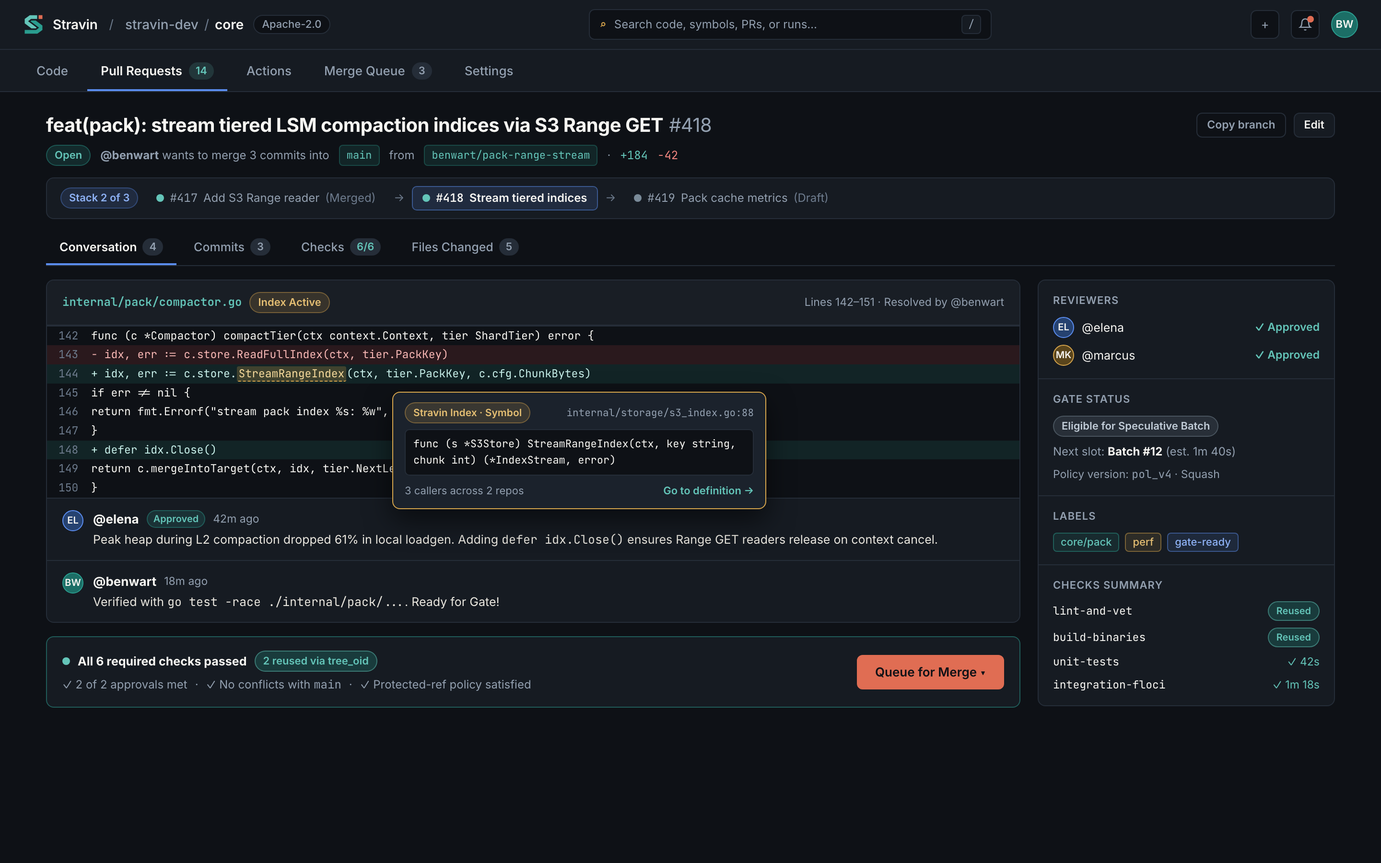
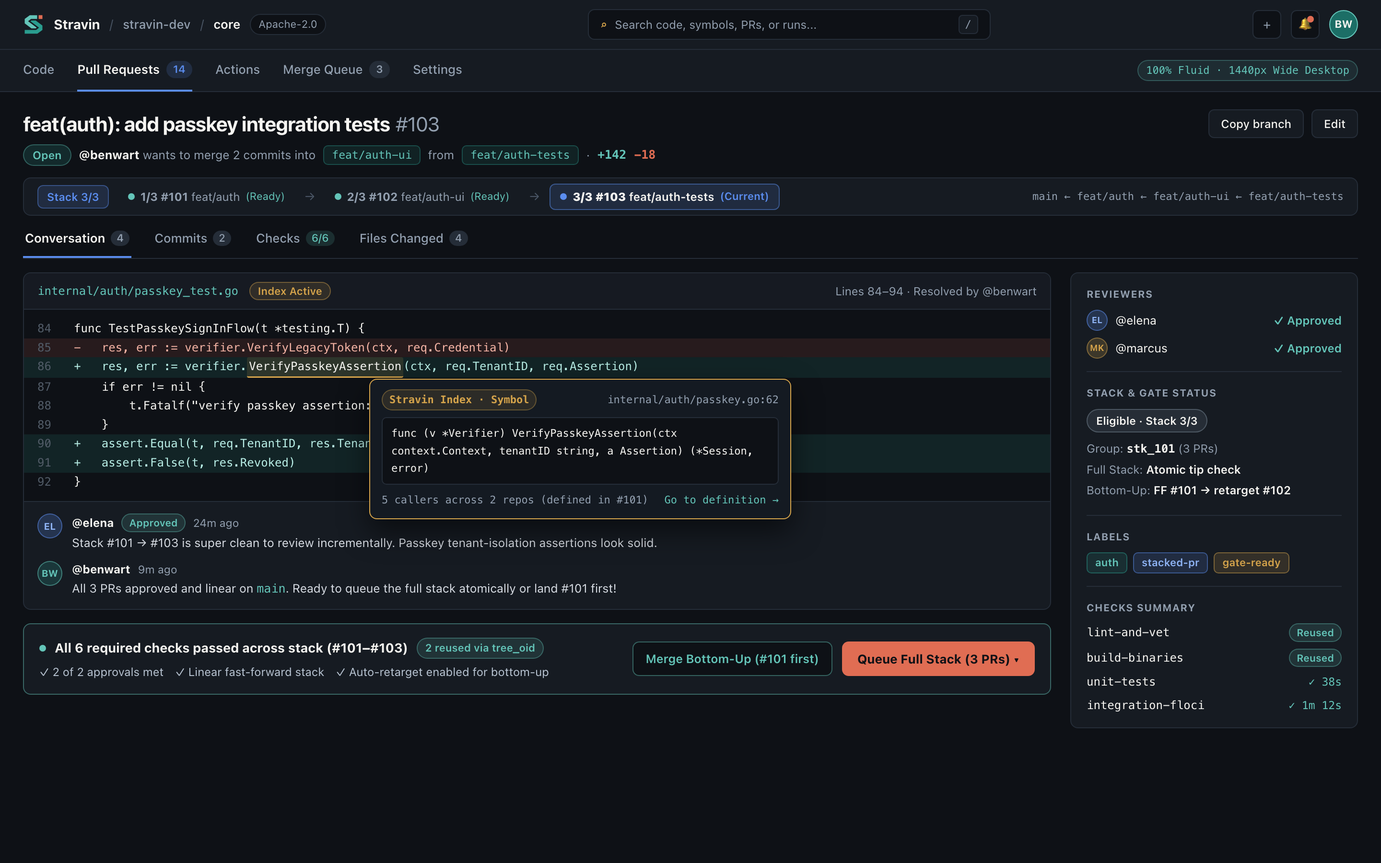
docs(ui,interfaces): add stacked PR merge modes and full-width responsive breakpoints

diff --git a/docs/interfaces/review-gate.md b/docs/interfaces/review-gate.md
@@ -21,20 +21,29 @@ sequenceDiagram
     participant Gate as Stravin Gate (Temporal Workflows)
     participant NATS as NATS JetStream (STRAVIN_GATE / STRAVIN_REVIEW)
 
-    Dev->>Review: Click "Add to Merge Queue" (single PR or stacked group)
-    Review->>Review: Snapshot approvals, unresolved threads, head_oid, stack members
-    Review->>Gate: POST /v1/queues/entries (Idempotency-Key, items[], eligibility, priority)
+    Dev->>Review: Click "Queue Full Stack" (FULL_STACK_ATOMIC) or "Queue #101 / Merge Bottom-Up" (BOTTOM_UP_CASCADE)
+    Review->>Review: Snapshot approvals, unresolved threads, head_oid, stack members (bottom-to-top)
+    Review->>Gate: POST /v1/queues/entries (Idempotency-Key, merge_mode, stack_group_id, items[], eligibility)
     Gate->>Gate: Validate policy_version rules (approvals, draft=false, stack contiguous)
     alt Eligible
-        Gate-->>Review: 201 Created (queue_entry_id, position, policy_version)
+        Gate-->>Review: 201 Created (queue_entry_id, merge_mode, stack_group_id, position, policy_version)
         loop Queue progress
             Gate->>NATS: Publish stravin.gate.<tenant>.<repo>.queue.updated (Nats-Msg-Id, traceparent)
             NATS-->>Review: Durable consumer delivery (review-gate-events)
             Review->>Review: Render queue badge & timeline event on PR(s)
         end
-        Gate->>NATS: Publish stravin.gate.<tenant>.<repo>.entry.merged (merged_commit_oid)
-        NATS-->>Review: Durable consumer delivery
-        Review->>Review: Mark PR(s) merged & close branches
+        alt merge_mode == FULL_STACK_ATOMIC
+            Gate->>Gate: Validate combined tip once (reuse tree_oid verdicts) & AtomicRefCAS entire stack
+            Gate->>NATS: Publish stravin.gate.<tenant>.<repo>.entry.merged (merged_commit_oid, merged_pr_ids[])
+            NATS-->>Review: Durable consumer delivery
+            Review->>Review: Mark all PRs in stack_group_id Merged & clean up intermediate branches
+        else merge_mode == BOTTOM_UP_CASCADE
+            Gate->>Gate: Fast-forward land bottom PR (#101 -> main) when linear
+            Gate->>NATS: Publish stravin.gate.<tenant>.<repo>.entry.merged (merged_commit_oid, fast_forward=true)
+            NATS-->>Review: Durable consumer delivery
+            Review->>Review: Mark #101 Merged, retarget #102 base_ref (feat/auth -> main) & restack cleanly
+            Review->>NATS: Publish stravin.review.<tenant>.<repo>.pr.base_retargeted (pr_id=#102, new_base_ref=main)
+        end
     else Ineligible
         Gate-->>Review: 422 Unprocessable Entity (unmet_requirements[])
         Review-->>Dev: Show blocking policy reasons inline
@@ -66,15 +75,19 @@ traceparent: 00-4bf92f3577b34da6a3ce929d0e0e4736-00f067aa0ba902b7-01
   "target_ref": "refs/heads/main",
   "actor_id": "usr_alice",
   "priority": "normal",
-  "merge_strategy": "squash",
+  "merge_strategy": "fast_forward",
+  "merge_mode": "FULL_STACK_ATOMIC",
+  "stack_group_id": "stk_01JDF700000000000000000101",
   "atomic_group": true,
   "items": [
     {
       "pr_id": "pr_01JDF7A...",
-      "head_ref": "refs/heads/feat/stack-1",
+      "pr_number": 101,
+      "base_ref": "refs/heads/main",
+      "head_ref": "refs/heads/feat/auth",
       "head_oid": "9999999999999999999999999999999999999999",
       "tree_oid": "8888888888888888888888888888888888888888",
-      "commit_message": "feat(edge): add singleflight pack cache (#410)",
+      "commit_message": "feat(auth): add token verifier (#101)",
       "eligibility": {
         "is_draft": false,
         "unresolved_thread_count": 0,
@@ -87,10 +100,12 @@ traceparent: 00-4bf92f3577b34da6a3ce929d0e0e4736-00f067aa0ba902b7-01
     },
     {
       "pr_id": "pr_01JDF8Z...",
-      "head_ref": "refs/heads/feat/stack-2",
+      "pr_number": 102,
+      "base_ref": "refs/heads/feat/auth",
+      "head_ref": "refs/heads/feat/auth-ui",
       "head_oid": "a1b2c3d4e5f6a1b2c3d4e5f6a1b2c3d4e5f6a1b2",
       "tree_oid": "b2c3d4e5f6a1b2c3d4e5f6a1b2c3d4e5f6a1b2c3",
-      "commit_message": "feat(edge): add S3 spillover tier (#411)",
+      "commit_message": "feat(auth-ui): add passkey sign-in flow (#102)",
       "eligibility": {
         "is_draft": false,
         "unresolved_thread_count": 0,
@@ -110,12 +125,21 @@ Response (`201 Created`):
 ```json
 {
   "queue_entry_id": "qe_01JDF9C4D5E6F7G8H9J0K1L2M3",
+  "merge_mode": "FULL_STACK_ATOMIC",
+  "stack_group_id": "stk_01JDF700000000000000000101",
   "state": "queued",
   "position": 3,
   "policy_version": "pol_01JDE0...",
   "enqueued_at": "2026-11-24T22:20:01Z"
 }
 ```
+
+#### Stacked PR Merge Modes (`merge_mode`)
+
+| `merge_mode` | `items[]` Payload | Gate Validation & Merge Semantics | Post-Merge Review Action |
+| :--- | :--- | :--- | :--- |
+| **`FULL_STACK_ATOMIC`** | Ordered bottom-to-top chain (`[#101, #102, #103]`) tagged with a shared `stack_group_id` and `atomic_group: true` | Gate validates the **combined tip once** (reusing cached `tree_oid` verdicts from Stravin Run where applicable) and lands the entire stack atomically onto `target_ref` via Core `AtomicRefCAS` — never landing a half-merged stack. | Review marks every PR in `stack_group_id` as **Merged** and deletes intermediate branches (`feat/auth`, `feat/auth-ui`, `feat/auth-tests`). |
+| **`BOTTOM_UP_CASCADE`** | Single bottom-most unmerged PR (`[#101]` whose `base_ref == target_ref`, e.g., `refs/heads/main`) | Gate verifies linear fast-forward eligibility against `target_ref` (falling back to configured merge strategy only if non-linear and allowed by policy) and lands `#101` onto `main` via fast-forward `AtomicRefCAS`. | Review marks `#101` as **Merged**, **automatically retargets** `#102`'s `base_ref` from `feat/auth` to `main`, fast-forwards/restacks downstream refs cleanly, and publishes `review.pr.base_retargeted`. |
 
 Additional synchronous endpoints:
 
@@ -154,16 +178,19 @@ Published to stream `STRAVIN_GATE` with `Nats-Msg-Id: <idempotency_key>` and W3C
 }
 ```
 
-- `stravin.gate.<tenant_id>.<repo_id>.entry.merged` (`event_type: "gate.entry.merged"`) — Fired after Core `AtomicRefCAS` succeeds, carrying `merged_commit_oid`, `target_ref`, `policy_version`, and per-PR final commit OIDs for stacked groups.
+- `stravin.gate.<tenant_id>.<repo_id>.entry.merged` (`event_type: "gate.entry.merged"`) — Fired after Core `AtomicRefCAS` succeeds, carrying `merge_mode`, `stack_group_id` (when stacked), `merged_commit_oid`, `fast_forward` (`bool`), `target_ref`, `policy_version`, and per-PR final commit OIDs for stacked groups.
 
-### 5.2 Review -> Gate: Eligibility Invalidation Events (`STRAVIN_REVIEW` JetStream)
+### 5.2 Review -> Gate: Eligibility Invalidation & Cascade Events (`STRAVIN_REVIEW` JetStream)
 
-- `stravin.review.<tenant_id>.<repo_id>.pr.eligibility_changed` (`event_type: "review.pr.eligibility_changed"`) — Published to `STRAVIN_REVIEW` whenever a queued PR is force-pushed, converted to draft, closed, receives a "changes requested" review, or loses a required approval (and `stravin.review.<tenant_id>.<repo_id>.pr.approved` on approvals). Gate binds durable consumer `gate-review-eligibility` and evicts the affected `queue_entry_id` (and the entire `atomic_group` if stacked).
-- **Temporal Workflow Engine (Gate Only):** **Stravin Gate** runs its speculative merge-queue batch workflows on **Temporal**: `POST /v1/queues/entries` and `DELETE /v1/queues/entries/{queue_entry_id}` start or signal queue workflows idempotently, `STRAVIN_REVIEW` invalidation events deliver external workflow signals, and `GET /v1/prs/{pr_id}/eligibility` runs as an idempotent Temporal activity. **Stravin Review** remains permanently Temporal-free.
+- `stravin.review.<tenant_id>.<repo_id>.pr.eligibility_changed` (`event_type: "review.pr.eligibility_changed"`) — Published to `STRAVIN_REVIEW` whenever a queued PR is force-pushed, converted to draft, closed, receives a "changes requested" review, or loses a required approval (and `stravin.review.<tenant_id>.<repo_id>.pr.approved` on approvals). Gate binds durable consumer `gate-review-eligibility` and evicts the affected `queue_entry_id` (and the entire `stack_group_id` if queued under `FULL_STACK_ATOMIC`).
+- `stravin.review.<tenant_id>.<repo_id>.pr.base_retargeted` (`event_type: "review.pr.base_retargeted"`) — Published to `STRAVIN_REVIEW` after a `BOTTOM_UP_CASCADE` merge lands a parent PR (`#101 -> main`) and Review automatically retargets the child PR (`#102`) from `refs/heads/feat/auth` to `refs/heads/main`. Carries `pr_id`, `stack_group_id`, `previous_base_ref`, `new_base_ref`, `parent_merged_commit_oid`, and `fast_forward_clean` (`bool`) so Gate and Run can immediately re-evaluate eligibility and reuse `tree_oid` verdicts without manual user intervention.
+- **Temporal Workflow Engine (Gate Only):** **Stravin Gate** runs its speculative merge-queue batch workflows on **Temporal**: `POST /v1/queues/entries` and `DELETE /v1/queues/entries/{queue_entry_id}` start or signal queue workflows idempotently, `STRAVIN_REVIEW` invalidation and cascade events deliver external workflow signals, and `GET /v1/prs/{pr_id}/eligibility` runs as an idempotent Temporal activity. **Stravin Review** remains permanently Temporal-free.
 
 ## 6. Shared Data Contracts & Identifiers
 
-- **Atomic Stacked Groups:** `items[]` is ordered bottom-to-top (index `0` is closest to `target_ref`). When `atomic_group: true`, Gate either merges every PR in `items[]` in one atomic Ref-CAS sequence or evicts the entire group — never landing a half-merged stack.
+- **Merge Mode Enum (`merge_mode`):**
+    - `FULL_STACK_ATOMIC` — Top-down atomic group merge: `items[]` is ordered bottom-to-top (index `0` is closest to `target_ref`) under one `stack_group_id`. Gate validates the combined tip once (reusing `tree_oid` verdicts where applicable) and either merges every PR in `items[]` atomically or evicts the entire group — never landing a half-merged stack.
+    - `BOTTOM_UP_CASCADE` — Incremental bottom-up merge: lands the bottom PR (`items[0]`) via fast-forward when linear, then Review automatically retargets the immediate child PR's `base_ref` to `target_ref` and emits `review.pr.base_retargeted` so the rest of the stack cascades cleanly without manual retargeting.
 - **Priority Enum:** `low` | `normal` | `high` | `emergency` (skip-to-front, audited).
 - **Eviction Reason Codes:** `MERGE_CONFLICT`, `REQUIRED_CHECK_FAILED`, `APPROVAL_REVOKED`, `HEAD_OID_CHANGED`, `POLICY_CHANGED`, `QUEUE_TIMEOUT`, `USER_DEQUEUED`.
 
@@ -180,16 +207,16 @@ Published to stream `STRAVIN_GATE` with `Nats-Msg-Id: <idempotency_key>` and W3C
 
 ### Side A: Stravin Review Build Checklist
 
-- [ ] Build deterministic eligibility snapshot builder bound to `(pr_id, head_oid, evaluated_at)` and bottom-to-top stack ordering.
-- [ ] Publish `stravin.review.<tenant_id>.<repo_id>.pr.eligibility_changed` (with `Nats-Msg-Id` and `traceparent`) to `STRAVIN_REVIEW` whenever a queued PR's approvals, draft status, or `head_oid` changes.
+- [ ] Build deterministic eligibility snapshot builder bound to `(pr_id, head_oid, evaluated_at)` and bottom-to-top stack ordering with `merge_mode` (`FULL_STACK_ATOMIC` | `BOTTOM_UP_CASCADE`) and `stack_group_id`.
+- [ ] Publish `stravin.review.<tenant_id>.<repo_id>.pr.eligibility_changed` and `stravin.review.<tenant_id>.<repo_id>.pr.base_retargeted` (with `Nats-Msg-Id` and `traceparent`) to `STRAVIN_REVIEW`.
 - [ ] Expose `GET /v1/prs/{pr_id}/eligibility` with app-level `tenant_id` check for Gate's pre-merge freshness check.
-- [ ] Bind durable JetStream consumer `review-gate-events` on `STRAVIN_GATE` and render `queue.updated`, `entry.evicted`, and `entry.merged` on all PRs in an atomic group.
+- [ ] Bind durable JetStream consumer `review-gate-events` on `STRAVIN_GATE`, close all PRs + clean intermediate branches on `FULL_STACK_ATOMIC`, and auto-retarget child PR `base_ref` on `BOTTOM_UP_CASCADE`.
 
 ### Side B: Stravin Gate Build Checklist
 
 - [ ] Implement idempotent `POST /v1/queues/entries`, `DELETE /v1/queues/entries/{id}`, `GET /v1/queues/entries/{id}`, and `POST /v1/policies/evaluate` (backed by Temporal merge-queue workflows and signals) with constant-time `tenant_id` checks.
-- [ ] Enforce `atomic_group: true` all-or-nothing semantics for stacked PRs.
-- [ ] Bind durable JetStream consumer `gate-review-eligibility` on `STRAVIN_REVIEW` and re-verify eligibility snapshots older than 5 minutes before executing Core `AtomicRefCAS`.
+- [ ] Enforce `merge_mode: "FULL_STACK_ATOMIC"` (combined tip validation with `tree_oid` reuse + all-or-nothing atomic merge) and `merge_mode: "BOTTOM_UP_CASCADE"` (fast-forward merge of bottom PR when linear).
+- [ ] Bind durable JetStream consumer `gate-review-eligibility` on `STRAVIN_REVIEW` (handling both `pr.eligibility_changed` and `pr.base_retargeted`) and re-verify eligibility snapshots older than 5 minutes before executing Core `AtomicRefCAS`.
 - [ ] Publish queue outcomes to `STRAVIN_GATE` and return structured `unmet_requirements[]` and `reason_code` values for clear PR timeline feedback.
 
 ### Shared Contract-Test Fixtures

diff --git a/docs/ui/pull-requests.md b/docs/ui/pull-requests.md
@@ -19,29 +19,56 @@ The Pull Requests workspace preserves GitHub's low-friction review rhythm—disc
 
 ### Key Elements
 
-- **Header & Branch Ref Chips:** PR title, state pill, diff stats, and copyable `source -> target` branch chips styled in Strata Teal.
-- **Optional Stack Strip:** Appears only when a PR is part of a stack—a single 36px horizontal strip (`#417 Merged -> #418 Current -> #419 Draft`) that lets reviewers step through stacked diffs without losing context.
+- **Header & Branch Ref Chips:** PR title, state pill, diff stats, and copyable `source -> target` branch chips styled in Strata Teal. For stacked PRs, the target chip displays the parent PR branch (for example `feat/auth-tests -> feat/auth-ui`).
+- **Optional Stack Strip (Zero-Tutorial Stacked PRs):** Appears only when a PR belongs to a branch-on-branch stack (`PR #101 (feat/auth -> main)` <- `PR #102 (feat/auth-ui -> feat/auth)` <- `PR #103 (feat/auth-tests -> feat/auth-ui)`). Renders a single 36px horizontal strip—for example **`1/3 #101 Ready` -> `2/3 #102 Current` -> `3/3 #103 Draft`** (or `1/3 #101 Ready` -> `2/3 #102 Ready` -> `3/3 #103 Current` at the stack tip)—so reviewers step up and down the chain with one click and never lose context.
 - **Familiar 4-Tab Workspace:** `Conversation`, `Commits`, `Checks`, and `Files Changed` keep the exact layout developers already know.
 - **Subtle `Stravin Index` Symbol Hover:** Hovering any identifier in a diff queries `Review ⟷ Index` over Cilium mTLS and displays an Ochre Amber popover with the symbol signature, definition path, cross-repo caller count, and a `Go to definition` link. When Index lags, the diff stays unaffected and falls back gracefully.
-- **Unified Checks & Gate Merge Box:** Replaces multi-panel merge widgets with one calm box summarizing required checks (calling out `tree_oid` reused verdicts), approvals, conflict state, and a single primary Rivet Terracotta CTA: **`Queue for Merge`**.
+- **Unified Checks & Gate Merge Box (Stacked-Aware):** Replaces multi-panel merge widgets with one calm box summarizing required checks (calling out `tree_oid` reused verdicts), approvals, conflict state, and stack-aware merge actions:
+    - **Bottom PR (`#101`, base = `main`):** Primary Rivet Terracotta CTA **`Queue #101 (Fast-Forward)`** (`BOTTOM_UP_CASCADE`). Landing `#101` via fast-forward automatically retargets `#102` from `feat/auth` to `main` and restacks cleanly down the chain without manual retargeting.
+    - **Upper / Tip PR (`#102` or `#103`):** Primary Rivet Terracotta CTA **`Queue Full Stack (3 PRs)`** (`FULL_STACK_ATOMIC`) paired with a clean secondary option **`Merge Bottom-Up (#101 first)`** (`BOTTOM_UP_CASCADE`).
+    - **Standalone PR (not stacked):** Single primary CTA **`Queue for Merge`**.
 - **Uncluttered Right Rail:** Limited to four high-signal sections—**Reviewers**, **Gate Status**, **Labels**, and **Checks Summary**.
+
+## First-Class Stacked Pull Requests
+
+Stravin supports native branch-on-branch stacking without custom CLI wrappers or hidden metadata branches. Basing `PR #102` on `PR #101`'s head branch (`feat/auth-ui -> feat/auth`) automatically links the stack in **Stravin Review** and unlocks two intuitive merge modes in **Stravin Gate**:
+
+| Merge Mode | Contract Value | Triggered From | Behavior & Git History |
+| :--- | :--- | :--- | :--- |
+| **Mode A — Merge Full Stack (Top-Down Atomic Group)** | `FULL_STACK_ATOMIC` | Any upper/tip PR (`Queue Full Stack (3 PRs)`) | Enqueues the entire unmerged chain (`[#101, #102, #103]`) into Gate under one `stack_group_id`. Gate validates the combined tip once (reusing `tree_oid` verdicts where applicable), merges the full stack atomically into `main`, marks all PRs Merged, and cleans up intermediate branches. |
+| **Mode B — Incremental Bottom-Up Merge (Fast-Forward Cascade)** | `BOTTOM_UP_CASCADE` | Bottom PR (`Queue #101 (Fast-Forward)`) or secondary CTA on upper PR (`Merge Bottom-Up (#101 first)`) | Lands the bottom PR (`#101 -> main`) via fast-forward when linear, then automatically retargets `#102`'s base branch from `feat/auth` to `main` (`review.pr.base_retargeted`) and fast-forwards/restacks cleanly down the chain while upper PRs stay open in review. |
 
 ## End-to-End Developer Flow
 
 ```mermaid
 flowchart LR
     Discover["1. Discover PR (PR List · Stack & Queue Pills)"]
-    Inspect["2. Inspect Diff (Conversation / Files + Index Hover)"]
+    Inspect["2. Inspect Diff (Stack Strip · Files + Index Hover)"]
     Approve["3. Approve & Resolve (Review -> Core Ref Snapshot)"]
-    Enqueue["4. Queue for Merge (Review -> Gate Temporal Queue)"]
-    Batch["5. Speculative Batch (Gate + Run · tree_oid Reuse)"]
-    Merged["6. Atomic Ref-CAS Merge (Core -> Notify & Webhooks)"]
+    Choice{"4. Stacked Merge Mode?"}
+    FullStack["Mode A: Queue Full Stack (FULL_STACK_ATOMIC · stack_group_id)"]
+    TipValidate["Validate Combined Tip Once (Gate + Run · tree_oid Reuse)"]
+    AtomicLand["Atomic Ref-CAS Land All PRs (Close Stack & Clean Branches)"]
+    BottomUp["Mode B: Merge Bottom-Up (BOTTOM_UP_CASCADE · #101 First)"]
+    FFLand["Fast-Forward Land #101 (Core Ref-CAS -> main)"]
+    Retarget["Auto-Retarget #102 -> main (review.pr.base_retargeted · Clean Cascade)"]
 
-    Discover --> Inspect --> Approve --> Enqueue --> Batch --> Merged
+    Discover --> Inspect --> Approve --> Choice
+    Choice -->|"Queue Full Stack (3 PRs)"| FullStack --> TipValidate --> AtomicLand
+    Choice -->|"Queue #101 / Merge Bottom-Up"| BottomUp --> FFLand --> Retarget
 ```
+
+## Responsive Behavior
+
+| Breakpoint | Layout & Rail Adaptation | Diffs, Stack Strip & Merge Box |
+| :--- | :--- | :--- |
+| **Wide Desktop (`>= 1440px`)** | `100%` fluid width (`padding-inline: 24px`); fluid main pane + `300px` right metadata rail | Side-by-side diffs fill full width; full horizontal Stack Strip; inline primary + secondary Merge Box CTAs |
+| **Desktop (`1024px - 1439px`)** | `100%` fluid width (`padding-inline: 20px`); compact `260px` right metadata rail | Side-by-side diffs stay active with compact gutters; Stack Strip truncates long PR titles cleanly |
+| **Tablet (`768px - 1023px`)** | `100%` fluid width (`padding-inline: 16px`); right rail collapses into top summary strip + slide-over drawer | Diffs default to **unified** view; Stack Strip scrolls horizontally if > 4 PRs; Merge Box stays full-width |
+| **Mobile (`< 768px`)** | Single-column `100%` width (`padding-inline: 12px`); scrollable repo tab bar; stacked cards | Unified diff only; compact Stack Strip pill (`Stack 3/3` drawer); **sticky bottom action bar** (`Approve` / `Queue`) with zero horizontal page scroll |
 
 ## Product Interface Grounding
 
-- **Core ⟷ Review:** Reads diffs and commit history via Core's read-only Git Data/Diff API and tracks PR head updates from `STRAVIN_CORE` JetStream events ([Core ⟷ Review](../interfaces/core-review.md)).
+- **Core ⟷ Review:** Reads diffs and commit history via Core's read-only Git Data/Diff API, resolves branch-on-branch stack lineage, and handles automatic base-branch retargeting + fast-forward ref advancement ([Core ⟷ Review](../interfaces/core-review.md)).
 - **Review ⟷ Index:** Powers inline symbol hover and cross-repo caller counts with RBAC filtering ([Review ⟷ Index](../interfaces/review-index.md)).
-- **Review ⟷ Gate:** Submits idempotent enqueue requests and renders live batch eligibility and atomic stack merge feedback ([Review ⟷ Gate](../interfaces/review-gate.md)).
+- **Review ⟷ Gate:** Submits idempotent enqueue requests with `merge_mode` (`FULL_STACK_ATOMIC` or `BOTTOM_UP_CASCADE`) and renders live batch eligibility, atomic stack merges, and bottom-up cascade feedback ([Review ⟷ Gate](../interfaces/review-gate.md)).

diff --git a/docs/interfaces/core-review.md b/docs/interfaces/core-review.md
@@ -7,8 +7,8 @@ This specification defines the contract between **Stravin Core** (bare Git stora
 | Concern | Source of Truth | Private Implementation Details (Never Crosses Boundary) |
 | :--- | :--- | :--- |
 | **Git objects, packs, refs, `default_branch`, `object_format`** | **Stravin Core** | S3 pack layout, DynamoDB `RS#s`/`RH#s`/`MS#m` sharding, `stravin-node` NVMe cache, `stravin-pack` compaction |
-| **PR lifecycle, review comments, approvals, stacked-diff topology, draft state** | **Stravin Review** | Review SQL/document database, inline comment anchoring heuristics, UI notification preferences |
-| **PR synthetic/head refs (`refs/stravin/pr/{pr_id}/head`, `refs/stravin/pr/{pr_id}/merge`)** | **Stravin Core** (storage) / **Stravin Review** (lifecycle) | Core stores refs via Ref-CAS; Review decides when to create, update, or clean them up |
+| **PR lifecycle, review comments, approvals, stacked-diff topology (`base_ref` -> parent `head_ref`), draft state** | **Stravin Review** | Review SQL/document database, inline comment anchoring heuristics, UI notification preferences |
+| **PR synthetic/head refs (`refs/stravin/pr/{pr_id}/head`, `refs/stravin/pr/{pr_id}/merge`)** | **Stravin Core** (storage) / **Stravin Review** (lifecycle) | Core stores refs via Ref-CAS; Review decides when to create, update, retarget, or clean them up |
 | **Synchronous push guardrails (Tier 1 Wasm hooks)** | **Stravin Core** (execution) | `wazero` module cache, bulkhead semaphore; Review surfaces hook rejection messages to web-editor commits |
 
 ## 2. Interaction Flow
@@ -110,6 +110,14 @@ message DiffEntry {
 
 When Review submits a commit (e.g., applying a suggested change or resolving a conflict in the UI), Core executes configured Tier 1 `wazero` Wasm hooks (`HookHostABI`). A `REJECT` verdict returns the hook's `message` and per-ref `ref_verdicts` over Git side-band stderr (or structured `FAILED_PRECONDITION` details on `CreateCommitAndUpdateRef`) so Review can render the exact guardrail violation inline.
 
+### 4.4 Stacked PR Branch Resolution, Base Retargeting & Fast-Forward Ref Advancement — *Proposed Contract (vNext)*
+
+Stravin supports first-class branch-on-branch stacked pull requests without hidden metadata refs or custom Git wire extensions:
+
+- **Branch-on-Branch Stack Resolution:** When a PR's `base_ref` equals another open PR's `head_ref` (for example `PR #101 (feat/auth -> main)` <- `PR #102 (feat/auth-ui -> feat/auth)` <- `PR #103 (feat/auth-tests -> feat/auth-ui)`), **Stravin Review** resolves the contiguous directed chain in its PR graph and computes each PR's incremental diff via `GitData.CompareDiff(base_oid=parent_head_oid, head_oid=child_head_oid, three_dot=true)`. Review rejects cyclic `base_ref` chains before persisting.
+- **Automatic Base-Branch Retargeting (Bottom-Up Merge):** When the bottom PR (`#101`) lands on `main` via `BOTTOM_UP_CASCADE`, Core emits `core.ref.updated` for `refs/heads/main` (and optional deletion of `refs/heads/feat/auth`). Review atomically updates `#102`'s `base_ref` from `refs/heads/feat/auth` to `refs/heads/main`, re-evaluates `GitData.MergeBase(main_oid, pr102_head_oid)` and `GitData.CompareDiff`, and emits `review.pr.base_retargeted` (`STRAVIN_REVIEW`) without requiring manual retargeting by the author.
+- **Fast-Forward Ref Advancement:** For linear stacks and bottom-up merges, ref updates advance via fast-forward (`old_oid` is an ancestor of `new_oid` verified through `GitData.MergeBase` / `CreateCommitAndUpdateRef` with `fast_forward_only: true` and atomic DynamoDB `Ref-CAS`). Because fast-forward preserves exact commit and `tree_oid` identities, downstream PRs in the stack remain cleanly descendant of the new `main` tip with zero synthetic merge commits and maximum `tree_oid` CI verdict reuse.
+
 ## 5. Asynchronous Events & Streams
 
 ### 5.1 Core -> Review: Ref Update Event (`STRAVIN_CORE` JetStream)
@@ -147,6 +155,7 @@ When Review submits a commit (e.g., applying a suggested change or resolving a c
 
 - **Repository Identity:** `(tenant_id, repo_id)` + immutable `object_format` (`sha1` | `sha256`) and mutable `default_branch` (from Core `META`).
 - **PR Reference Namespace:** Review-managed refs live strictly under `refs/stravin/pr/{pr_id}/head` and `refs/stravin/pr/{pr_id}/merge` so they never collide with user branches (`refs/heads/*`) or Gate refs (`refs/stravin/gate/*`).
+- **Stacked Lineage:** Stored in Review as `(pr_id, base_ref, head_ref, stack_group_id)` resolved directly from user branch refs (`refs/heads/*`); Core remains unaware of PR groupings and enforces only atomic ref-CAS and fast-forward ancestry checks.
 - **OID Encoding:** Always lowercase hex matching `object_format` (40 chars for `sha1`, 64 chars for `sha256`). Zero OID (`ddb.ZeroOIDForFormat`) represents ref creation (`old_oid`) or deletion (`new_oid`).
 
 ## 7. Failure Modes, Timeouts & Idempotency
@@ -171,7 +180,7 @@ When Review submits a commit (e.g., applying a suggested change or resolving a c
 
 - [ ] Bind durable JetStream consumer `review-core-refs` on `STRAVIN_CORE` (`stravin.core.*.*.ref.updated`), verifying envelope `tenant_id` matches subject `tenant_id`.
 - [ ] Store `(tenant_id, repo_id, object_format)` on every PR; never hardcode 40-char SHA-1 assumptions.
-- [ ] Implement idempotent PR revision sync keyed by `(ref_name, ulid)` plus on-demand `ListRefs` reconciliation on PR view.
+- [ ] Implement idempotent PR revision sync keyed by `(ref_name, ulid)`, branch-on-branch stack resolution (`base_ref` matching parent `head_ref`), and automatic `base_ref` retargeting on bottom-up fast-forward merges.
 - [ ] Restrict all Review-managed refs to `refs/stravin/pr/{pr_id}/*`.
 
 ### Shared Contract-Test Fixtures

diff --git a/docs/ui/index.md b/docs/ui/index.md
@@ -33,6 +33,26 @@ Every UI surface uses the canonical tokens defined in `stravin-dev/assets/BRANDI
 
 Typography uses **`Inter`** for all UI chrome and prose, and **`JetBrains Mono`** for branch refs, commit SHAs, code diffs, step logs, and filter queries.
 
+## Full-Width Layout & Responsive Breakpoints
+
+The Stravin web application shell is **full width (`width: 100%`)** with zero cramped, fixed-width centered containers. Wide monitors give diffs, Temporal DAGs, and settings tables the entire horizontal canvas, while tablets and phones collapse secondary rails into drawers and sticky action bars with zero horizontal page scroll.
+
+![Stravin Responsive Breakpoints composite mockup](assets/responsive-breakpoints.png)
+
+| Breakpoint | Viewport Width | Container & Padding | Rails & Navigation | Diffs, DAGs & Primary Actions |
+| :--- | :--- | :--- | :--- | :--- |
+| **Wide Desktop** | `>= 1440px` | `100%` fluid (`padding-inline: 24px`) | Fluid main pane + fixed `300px` right metadata rail (`Review` / `Gate`); `240px` left workflow/settings rail | Side-by-side diffs expand to fill all available width; `Actions` DAG and `Settings` forms breathe cleanly |
+| **Desktop** | `1024px - 1439px` | `100%` fluid (`padding-inline: 20px`) | Compact `260px` right rail; `220px` left workflow/settings rail | Side-by-side diffs stay enabled with compact line-number gutters; DAG nodes stay horizontal |
+| **Tablet** | `768px - 1023px` | `100%` fluid (`padding-inline: 16px`) | Right metadata rail collapses into a compact top summary strip + slide-over drawer; left rails become toggleable drawers | Diffs default to **unified** view; horizontal DAG scrolls inside its card container |
+| **Mobile** | `< 768px` | Single-column `100%` (`padding-inline: 12px`) | Horizontally scrollable repo tab bar; stacked cards; rails open as full-height bottom/side sheets | Unified diff only; **sticky bottom action bar** (`Approve` / `Queue`) with zero horizontal page scroll |
+
+### Rail & Diff Collapse Rules
+
+- **Right Metadata Rail (`Review` / `Gate`):** Fixed `300px` at `>= 1440px` and `260px` at `1024px - 1439px`; below `1024px` it collapses into a one-line summary strip (approvals, Gate badge, checks) with an expand drawer button.
+- **Left Navigation Rail (`Actions` / `Settings`):** Persistent at `>= 1024px`; below `1024px` it converts to a top filter/section selector chip that opens a slide-over drawer.
+- **Diff Viewport (`Files Changed`):** Defaults to side-by-side at `>= 1024px` and switches automatically to unified at `< 1024px` (user toggleable on Tablet, locked unified on Mobile).
+- **Sticky Mobile Action Bar:** Below `768px`, primary review and merge actions (`Approve`, `Queue Full Stack` / `Queue #101`) pin to a 56px bottom bar so engineers can act without scrolling back to the Merge Box.
+
 ## GitHub ⟷ Stravin UX Mapping
 
 | Workflow Area | Kept Familiar from GitHub | Simplified or Upgraded in Stravin |

diff --git a/docs/ui/actions-runs.md b/docs/ui/actions-runs.md
@@ -38,6 +38,15 @@ flowchart LR
     Trigger --> DAG --> Lease --> Stream --> Verdict
 ```
 
+## Responsive Behavior
+
+| Breakpoint | Layout & Rail Adaptation | DAG & Live Log Viewport |
+| :--- | :--- | :--- |
+| **Wide Desktop (`>= 1440px`)** | `100%` fluid width (`padding-inline: 24px`); `240px` left workflow + runner pool rail | Full horizontal Temporal DAG without scrolling; wide `JetBrains Mono` log lines with inline search |
+| **Desktop (`1024px - 1439px`)** | `100%` fluid width (`padding-inline: 20px`); compact `220px` left workflow rail | Full horizontal DAG with tighter node spacing; full-width collapsible step log viewer |
+| **Tablet (`768px - 1023px`)** | `100%` fluid width (`padding-inline: 16px`); left workflow rail becomes a toggleable slide-over drawer | DAG scrolls horizontally inside its bounded card; run controls (`Cancel run`, `Re-run failed`) stay pinned in header |
+| **Mobile (`< 768px`)** | Single-column `100%` width (`padding-inline: 12px`); scrollable repo tab bar; workflow selector chip | DAG switches to a compact vertical stage list; wrapped/scrollable log pane with sticky bottom `Re-run` / `Cancel` bar |
+
 ## Product Interface Grounding
 
 - **Core ⟷ Run:** Ephemeral runners fetch via Core's Valkey + S3 pack cache and `bundle-uri` with short-lived scoped Git tokens ([Core ⟷ Run](../interfaces/core-run.md)).

diff --git a/docs/ui/settings.md b/docs/ui/settings.md
@@ -39,6 +39,15 @@ flowchart LR
     Protect --> Gate --> Auth --> Hooks --> Notify
 ```
 
+## Responsive Behavior
+
+| Breakpoint | Layout & Rail Adaptation | Forms, Cards & Tables |
+| :--- | :--- | :--- |
+| **Wide Desktop (`>= 1440px`)** | `100%` fluid width (`padding-inline: 24px`); `240px` left settings rail + breathing full-width card grid | Multi-column SSO adapter tiles (OIDC / SCIM 2.0 / WorkOS) and wide webhook delivery tables |
+| **Desktop (`1024px - 1439px`)** | `100%` fluid width (`padding-inline: 20px`); compact `220px` left settings rail | Multi-column adapter tiles stay side-by-side; toggle rows align cleanly with right-justified switches |
+| **Tablet (`768px - 1023px`)** | `100%` fluid width (`padding-inline: 16px`); left settings rail collapses into a toggleable section drawer | 2-column SSO tiles; webhook rows wrap secondary metadata under the endpoint URL |
+| **Mobile (`< 768px`)** | Single-column `100%` width (`padding-inline: 12px`); top section selector chip; stacked cards | Single-column form cards; one-tap `Redeliver` and switches; sticky bottom `Save Changes` bar when dirty |
+
 ## Product Interface Grounding
 
 - **Core ⟷ Gate:** Synchronizes branch protection rules into Tier 1 Wasm hooks and manages speculative Gate refs ([Core ⟷ Gate](../interfaces/core-gate.md)).
